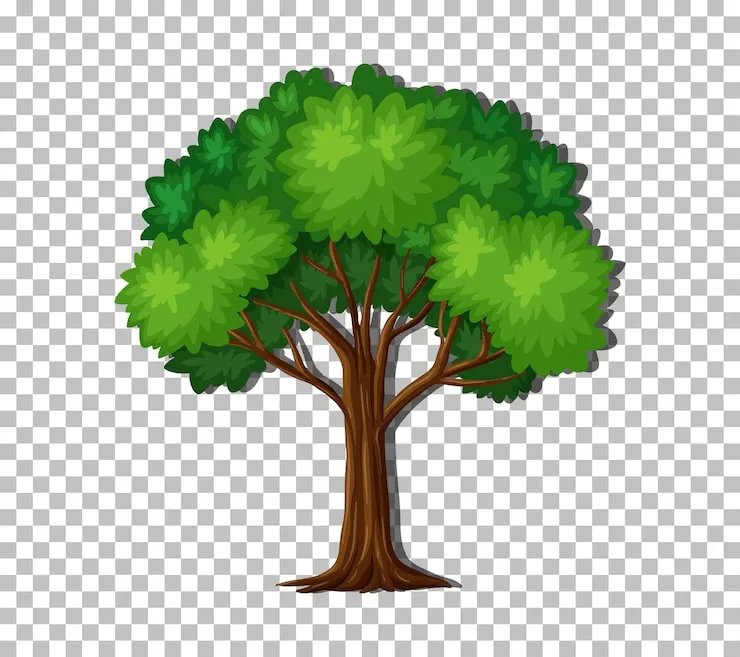
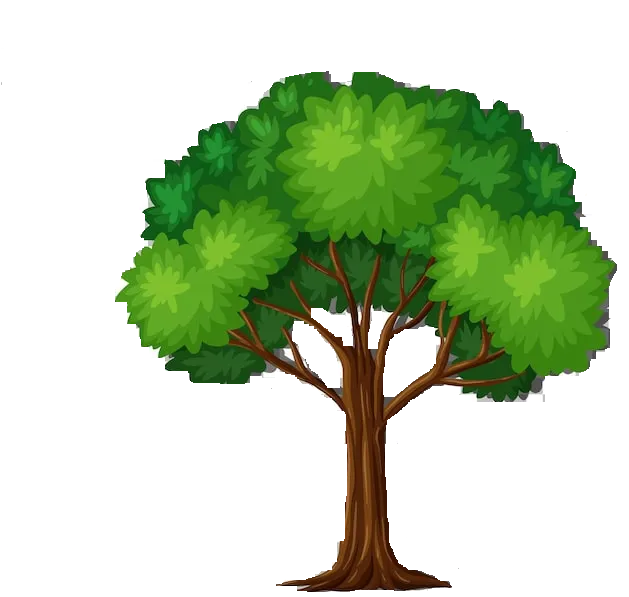
debugging, changing tree png

diff --git a/Projects/Game1/code/Timber.cpp b/Projects/Game1/code/Timber.cpp
@@ -1,6 +1,5 @@
 #include <SFML/Graphics.hpp>
 #include <sstream>
-#include <iostream>
 
 using namespace sf;
 using namespace std;
@@ -48,7 +47,10 @@ int main()
 	// Attaching a texture to the sprite
 	spriteBackground.setTexture(textureBackground);
 
-	//Setting spriteBackground to cover screen
+	//Set fixed sizes for background
+	spriteBackground.setScale(
+		1920.0f / textureBackground.getSize().x,
+		1080.0f / textureBackground.getSize().y);
 	spriteBackground.setPosition(0, 0);
 
 	//Creating tree sprite
@@ -56,14 +58,16 @@ int main()
 	textureTree.loadFromFile("graphics/tree.png");
 	Sprite spriteTree;
 	spriteTree.setTexture(textureTree);
-	spriteTree.setPosition(810, 0);
+	spriteTree.setScale(0.5f, 0.5f);
+	spriteTree.setPosition(810, 100);
 
 	//Creating the bee
 	Texture textureBee;
 	textureBee.loadFromFile("graphics/bee.png");
 	Sprite spriteBee;
 	spriteBee.setTexture(textureBee);
-	spriteBee.setPosition(0, 800);
+	spriteBee.setScale(0.5f, 0.5f);	
+	spriteBee.setPosition(2000, 800);
 
 	bool beeActive = false;
 	//Set bee speed
@@ -74,10 +78,13 @@ int main()
 	textureCloud.loadFromFile("graphics/cloud.png");
 	Sprite spriteCloud1;
 	spriteCloud1.setTexture(textureCloud);
+	spriteCloud1.setScale(0.7f, 0.7f);
 	Sprite spriteCloud2;
 	spriteCloud2.setTexture(textureCloud);
+	spriteCloud2.setScale(0.7f, 0.7f);
 	Sprite spriteCloud3;
 	spriteCloud3.setTexture(textureCloud);
+	spriteCloud3.setScale(0.7f, 0.7f);
 
 	//Positioning clouds on screen at different heights
 	spriteCloud1.setPosition(0, 0);
@@ -100,22 +107,25 @@ int main()
 	for (int i = 0; i < NUM_BRANCHES; i++)
 	{
 		branches[i].setTexture(textureBranch);
+		branches[i].setScale(0.5f, 0.5f);
 		branches[i].setOrigin(220, 20);
 		branchPositions[i] = Side::NONE; 
 	}
 
 	//Player sprite
-	Texture texPlayer;
-	texPlayer.loadFromFile("graphics/player.png");
+	Texture texturePlayer;
+	texturePlayer.loadFromFile("graphics/player.png");
 	Sprite spritePlayer;
-	spritePlayer.setTexture(texPlayer);
+	spritePlayer.setTexture(texturePlayer);
+	//Set player scale
+	spritePlayer.setScale(0.4f, 0.4f);
 	//Starts player on left side of screen
 	spritePlayer.setPosition(580, 720);
 
 	//Game state variables
 	int score = 0;
 	float timeRemaining = 10.0f;
-	Side playerSide = Side::LEFT; \
+	Side playerSide = Side::LEFT; 
 		bool started = false;
 
 	//Time variables
@@ -152,6 +162,7 @@ int main()
 		{
 			playerSide = Side::LEFT;
 			score++;
+			started = true;
 			timeRemaining += .15f;
 			spritePlayer.setPosition(580, 720);
 			updateBranches(score);
@@ -166,7 +177,6 @@ int main()
 		//Measure time
 		Time dt = clock.restart();
 		timeRemaining -= dt.asSeconds();
-		std::cout << "dt: " << dt.asSeconds() << " timeRemaining: " << timeRemaining << "\n";
 		if (timeRemaining <= 0) {
 			window.close();
 		}
@@ -175,7 +185,6 @@ int main()
 		{
 			srand((int)time(0));
 			beeSpeed = (rand() % 200) + 200;
-
 			//Bee height
 			srand((int)time(0) * 10);
 			float height = (rand() % 500) + 500;
@@ -269,13 +278,11 @@ int main()
 		}
 		if (started && branchPositions[NUM_BRANCHES - 1] == playerSide) {
 			//Game over
-			cout << "Closed: branch collision\n";
 			window.close();
 		}
 		if (beeActive && spriteBee.getPosition().x < 1900 &&
 			spriteBee.getGlobalBounds().intersects(spritePlayer.getGlobalBounds())) {
 			//Game over
-			cout << "Closed: bee collision\n";
 			window.close();
 		}
 
@@ -290,7 +297,7 @@ int main()
 		//Draw tree branches
 		for (int i = 0; i < NUM_BRANCHES; i++) {
 			if (branchPositions[i] != Side::NONE) {
-				branches[i].setPosition(810, (i * 150));
+				branches[i].setPosition(810, i * 150);
 				if (branchPositions[i] == Side::LEFT) {
 					branches[i].setRotation(180);
 				}
